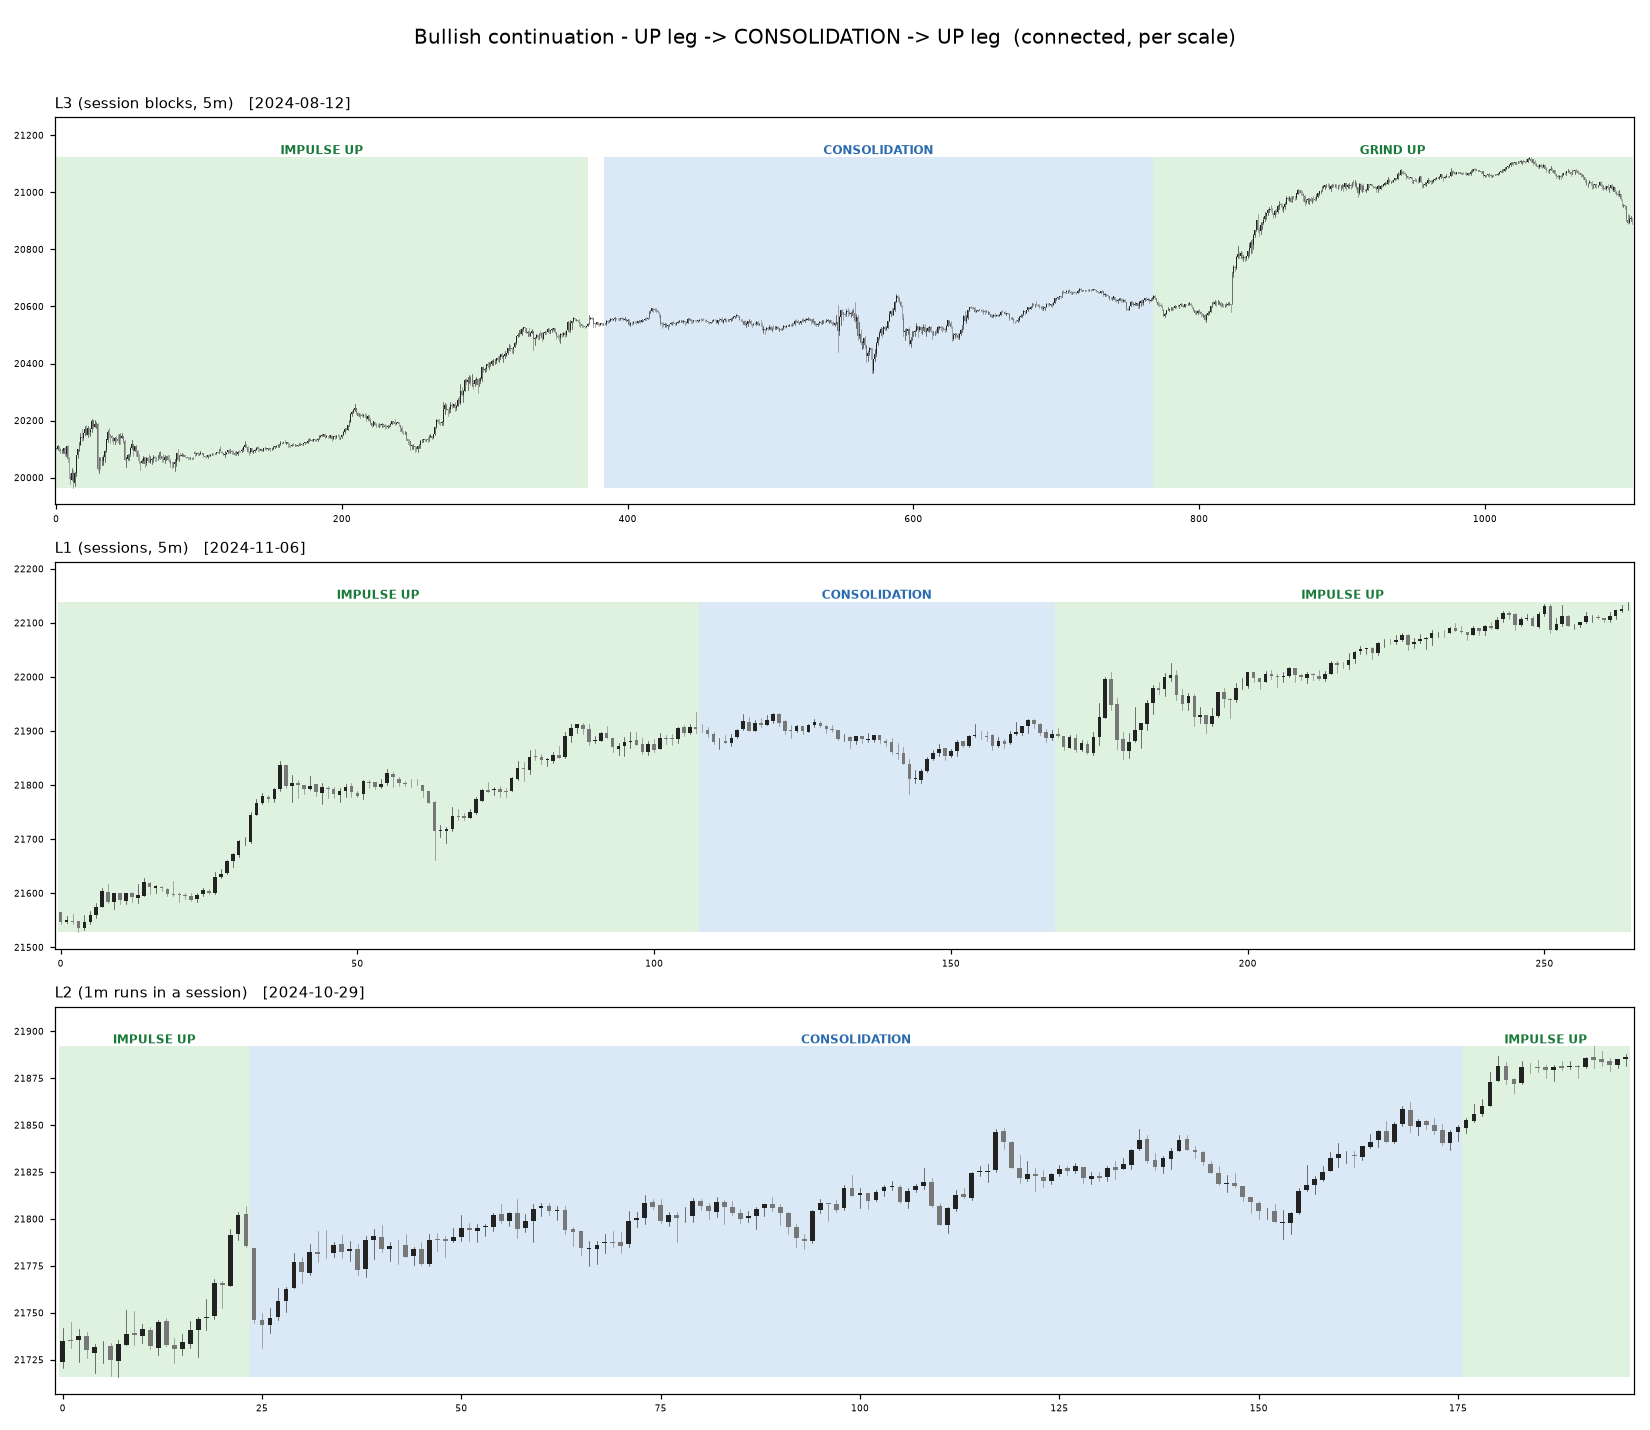
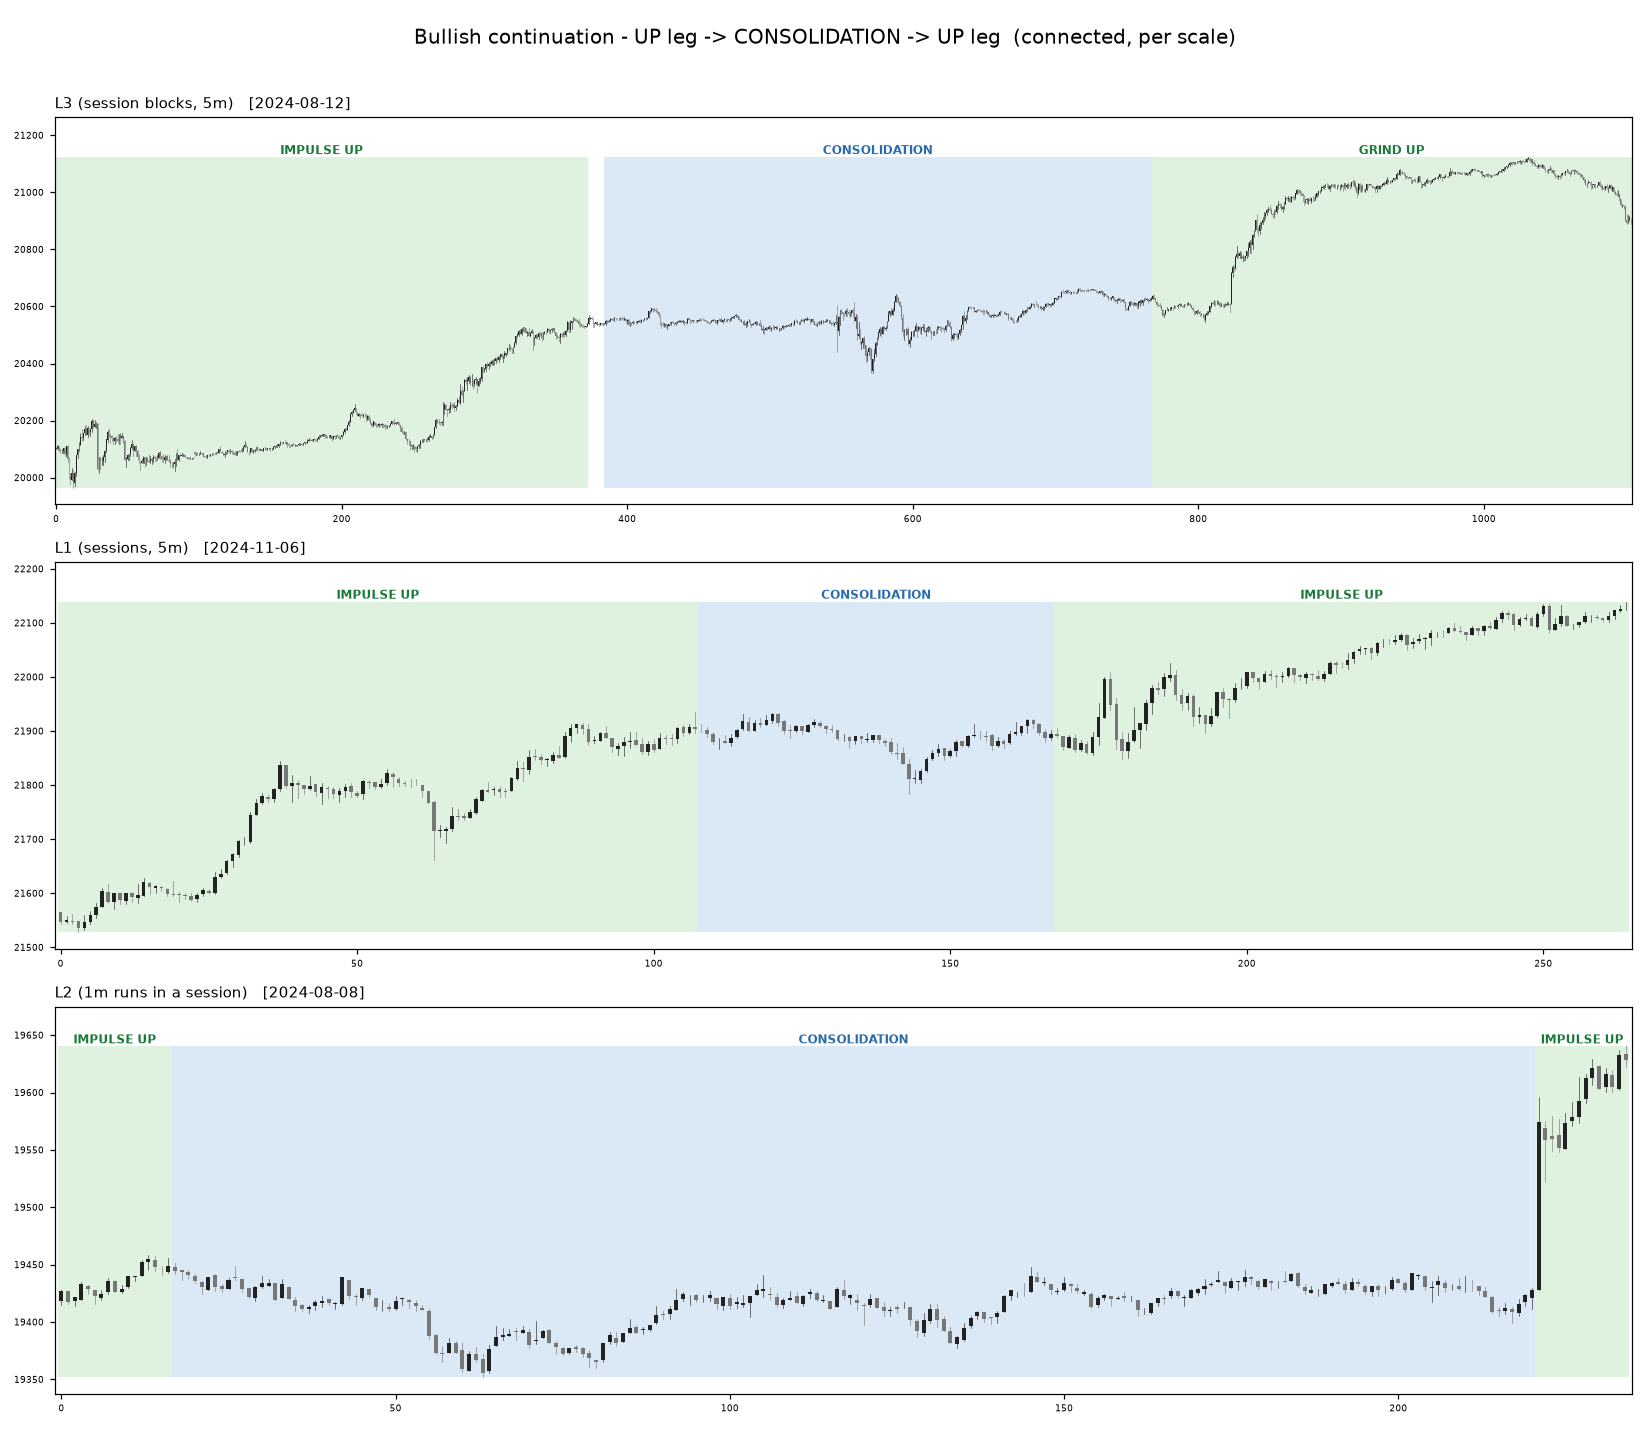
Engine research: cross-scale alignment + continuation counts
alignment.py: measures whether the lower scale points the same way inside the higher.
Finding — alignment collapses with scale distance: L1->L2 tightly coupled (~87%, a
directional session is built of same-direction impulses) but L3->L1 basically decoupled
(~19% = base rate; big trends accumulate through mostly-flat sessions). Full 3-scale
confluence only ~18% of directional moments -> rare and premium.

find_continuation.py: now prints how many connected up->consolidation->up setups exist
per scale (6mo: L3=4, L1=12, L2=66 — frequency scales fractally, many small / few big).
README updated with both.

diff --git a/experiments/engine/research/alignment.py b/experiments/engine/research/alignment.py
@@ -1,0 +1,160 @@
+"""experiments/engine/research/alignment.py — do the scales line up?
+
+Measures cross-scale directional alignment: when the higher scale points UP, does the
+lower scale point UP inside it (nesting/confluence), or do they diverge?
+
+  L3->L1 : for each L3 direction, what direction are the L1 sessions inside it?
+  L1->L2 : for each L1 direction, which way do the 1m impulses inside tilt?
+  full stack : how often do all three point the same directional way at once?
+
+Direction of a state: UP = impulse/grind up | DN = impulse/grind down | FLAT = consol/whip.
+Read-only research VIEW; only calls the frozen engine.
+
+  python experiments/engine/research/alignment.py
+"""
+import argparse
+import os
+import sys
+from collections import Counter, defaultdict
+
+import matplotlib
+matplotlib.use("Agg")
+import matplotlib.pyplot as plt
+import numpy as np
+import pandas as pd
+
+HERE = os.path.dirname(os.path.abspath(__file__))
+ENGINE = os.path.dirname(HERE)
+REPO = os.path.dirname(os.path.dirname(ENGINE))
+sys.path.insert(0, ENGINE)
+sys.path.insert(0, REPO)
+from grade import grade  # noqa: E402
+from anchors import session_anchors, rolling_states, meta_frame  # noqa: E402
+
+COL = {"UP": "#1a9850", "FLAT": "#b3b3b3", "DN": "#d73027"}
+
+
+def cuts(gs, ep=0.66, ap=0.50):
+    return (float(np.quantile([g.efficiency for g in gs], ep)),
+            float(np.quantile([g.acceptance for g in gs], ap)))
+
+
+def reclass(g, e, a):
+    d = "UP" if g.direction == "bull" else "DN"
+    if g.efficiency >= e:
+        return ("GRIND " if g.acceptance >= a else "IMPULSE ") + d
+    return "CONSOLIDATION" if g.acceptance >= a else "WHIPSAW"
+
+
+def dir_of(s):
+    if s in ("IMPULSE UP", "GRIND UP"):
+        return "UP"
+    if s in ("IMPULSE DN", "GRIND DN"):
+        return "DN"
+    return "FLAT"
+
+
+def merge_impulses(states, gap=12, min_len=8):
+    n = len(states); raw = []; i = 0
+    while i < n:
+        if states[i] and states[i].startswith("IMPULSE"):
+            j = i
+            while j < n and states[j] == states[i]:
+                j += 1
+            raw.append([i, j - 1, states[i]]); i = j
+        else:
+            i += 1
+    m = []
+    for a, b, s in raw:
+        if m and m[-1][2] == s and a - m[-1][1] - 1 <= gap:
+            m[-1][1] = b
+        else:
+            m.append([a, b, s])
+    return [(a, b, s) for a, b, s in m if b - a + 1 >= min_len]
+
+
+def stacked(ax, buckets, title, xlabel):
+    conds = ["UP", "FLAT", "DN"]
+    bottom = np.zeros(len(conds))
+    for oc in ("UP", "FLAT", "DN"):
+        vals = [buckets[c].get(oc, 0) / max(1, sum(buckets[c].values())) for c in conds]
+        ax.bar([f"{xlabel}\n{c}" for c in conds], vals, bottom=bottom, color=COL[oc], label=oc)
+        for xi, (v, b0) in enumerate(zip(vals, bottom)):
+            if v > 0.06:
+                ax.text(xi, b0 + v / 2, f"{v:.0%}", ha="center", va="center", fontsize=8, color="white")
+        bottom += np.array(vals)
+    ns = [sum(buckets[c].values()) for c in conds]
+    for xi, n in enumerate(ns):
+        ax.text(xi, 1.01, f"n={n}", ha="center", fontsize=7, color="#555")
+    ax.set_ylim(0, 1.06); ax.set_title(title, fontsize=11); ax.legend(fontsize=8, loc="lower right")
+
+
+def main():
+    ap = argparse.ArgumentParser()
+    ap.add_argument("--start", default="2023-01-01")
+    ap.add_argument("--sample", type=int, default=200, help="sessions for the 1m L1->L2 pass")
+    args = ap.parse_args()
+    d5 = pd.read_parquet(os.path.join(REPO, "data", "NQ", "NQ_5m.parquet"))
+    d5 = d5.loc[d5.index >= pd.Timestamp(args.start, tz="UTC")]
+    insts = session_anchors(d5, 1_000_000)
+
+    g1 = [grade(d5.iloc[s["start"]:s["end"] + 1]) for s in insts]
+    e1, a1 = cuts(g1)
+    l1 = [reclass(g, e1, a1) for g in g1]
+    W = 8
+    g3 = [grade(meta_frame(g1[i - W:i])) for i in range(W, len(g1))]
+    e3, a3 = cuts(g3)
+    l3 = {i: reclass(g3[i - W], e3, a3) for i in range(W, len(g1))}
+
+    # L3 -> L1 (full window)
+    l3_l1 = defaultdict(Counter)
+    for i in range(W, len(insts)):
+        l3_l1[dir_of(l3[i])][dir_of(l1[i])] += 1
+
+    # L1 -> L2 (sample, 1m) + full stack
+    d1 = pd.read_parquet(os.path.join(REPO, "data", "NQ", "NQ_1m.parquet"))
+    sample_ix = list(range(max(W, len(insts) - args.sample), len(insts)))
+    d1 = d1.loc[d1.index >= d5.index[insts[sample_ix[0]]["start"]]]
+    l1_l2 = defaultdict(Counter)
+    stack_agree = stack_dir = 0
+    for i in sample_ix:
+        s = insts[i]
+        win1 = d1.loc[d5.index[s["start"]]:d5.index[s["end"]] + pd.Timedelta("5min")]
+        if len(win1) < 40:
+            continue
+        imps = merge_impulses(rolling_states(win1, 25))
+        up = sum(1 for _a, _b, x in imps if x.endswith("UP"))
+        dn = len(imps) - up
+        l2d = "UP" if up > dn * 1.3 else "DN" if dn > up * 1.3 else "FLAT"
+        l1_l2[dir_of(l1[i])][l2d] += 1
+        if dir_of(l3.get(i, "FLAT")) in ("UP", "DN"):
+            stack_dir += 1
+            if dir_of(l3[i]) == dir_of(l1[i]) == l2d:
+                stack_agree += 1
+
+    print("=" * 58)
+    print(f"  CROSS-SCALE ALIGNMENT - NQ since {args.start} ({len(insts)} sessions)")
+    print("=" * 58)
+    print("\n  L3 -> L1 : when the multi-session scale is directional, does the session follow?")
+    for d in ("UP", "DN"):
+        b = l3_l1[d]; t = sum(b.values())
+        print(f"    L3 {d}: L1 same {b[d]/t:.0%} | flat {b['FLAT']/t:.0%} | opposite {b['DN' if d=='UP' else 'UP']/t:.0%}  (n={t})")
+    print("\n  L1 -> L2 : when the session is directional, do the 1m impulses tilt with it?")
+    for d in ("UP", "DN"):
+        b = l1_l2[d]; t = sum(b.values()) or 1
+        print(f"    L1 {d}: L2 same {b[d]/t:.0%} | flat {b['FLAT']/t:.0%} | opposite {b['DN' if d=='UP' else 'UP']/t:.0%}  (n={sum(b.values())})")
+    print(f"\n  FULL STACK: all three agree on direction {stack_agree/max(1,stack_dir):.0%} "
+          f"of directional moments (n={stack_dir})")
+
+    fig, ax = plt.subplots(1, 2, figsize=(13, 6))
+    stacked(ax[0], l3_l1, "L3 -> L1  (session direction, given L3)", "L3")
+    stacked(ax[1], l1_l2, "L1 -> L2  (1m impulse tilt, given L1)", "L1")
+    fig.suptitle("Cross-scale alignment - does the lower scale point the same way as the higher?", fontsize=13)
+    fig.tight_layout(rect=[0, 0, 1, 0.95])
+    out = os.path.join(ENGINE, "out", "alignment.png")
+    fig.savefig(out, dpi=110)
+    print("\nwrote", out)
+
+
+if __name__ == "__main__":
+    main()

diff --git a/experiments/engine/research/find_continuation.py b/experiments/engine/research/find_continuation.py
@@ -93,7 +93,7 @@ def find_l1(d5, insts):
                  (st[i + 2], insts[i + 2]["start"] - p0, insts[i + 2]["end"] - p0)]
             score = net(d5.iloc[insts[i]["start"]:insts[i]["end"] + 1]) + net(d5.iloc[insts[i + 2]["start"]:insts[i + 2]["end"] + 1])
             cands.append((seg, b, score))
-    return best(cands)
+    return best(cands), len(cands)
 
 
 def find_l3(d5, insts, B=4):
@@ -111,7 +111,7 @@ def find_l3(d5, insts, B=4):
                  (st[i + 2], blocks[i + 2][0] - p0, blocks[i + 2][1] - p0)]
             score = net(d5.iloc[blocks[i][0]:blocks[i][1] + 1]) + net(d5.iloc[blocks[i + 2][0]:blocks[i + 2][1] + 1])
             cands.append((seg, b, score))
-    return best(cands)
+    return best(cands), len(cands)
 
 
 def find_l2(d5, d1, insts, sample):
@@ -135,7 +135,7 @@ def find_l2(d5, d1, insts, sample):
                      ("IMPULSE UP", ca - pa, cb - pa)]
                 score = net(win1.iloc[pa:pb + 1]) + net(win1.iloc[ca:cb + 1])
                 cands.append((seg, b, score))
-    return best(cands)
+    return best(cands), len(cands)
 
 
 def draw(ax, found, title):
@@ -167,10 +167,17 @@ def main():
     d1 = d1.loc[d1.index >= pd.Timestamp(args.start, tz="UTC")]
     insts = session_anchors(d5, 1_000_000)
 
+    l3f, l3n = find_l3(d5, insts)
+    l1f, l1n = find_l1(d5, insts)
+    l2f, l2n = find_l2(d5, d1, insts, args.l2_sample)
+    print(f"continuation setups found  ({d5.index[0].date()} -> {d5.index[-1].date()}, {len(insts)} sessions):")
+    print(f"  L3 (session blocks): {l3n}")
+    print(f"  L1 (sessions):       {l1n}")
+    print(f"  L2 (1m, last {args.l2_sample} sessions): {l2n}")
     fig, ax = plt.subplots(3, 1, figsize=(15, 13))
-    draw(ax[0], find_l3(d5, insts), "L3 (session blocks, 5m)")
-    draw(ax[1], find_l1(d5, insts), "L1 (sessions, 5m)")
-    draw(ax[2], find_l2(d5, d1, insts, args.l2_sample), "L2 (1m runs in a session)")
+    draw(ax[0], l3f, "L3 (session blocks, 5m)")
+    draw(ax[1], l1f, "L1 (sessions, 5m)")
+    draw(ax[2], l2f, "L2 (1m runs in a session)")
     fig.suptitle("Bullish continuation - UP leg -> CONSOLIDATION -> UP leg  (connected, per scale)", fontsize=13)
     fig.tight_layout(rect=[0, 0, 1, 0.97])
     out = os.path.join(ENGINE, "out", "continuation_examples.png")

diff --git a/experiments/engine/research/README.md b/experiments/engine/research/README.md
@@ -105,6 +105,23 @@ is the entry zone; the same structure recurs fractally.
 python experiments/engine/research/find_continuation.py
 ```
 
+### `alignment.py` — do the scales line up? (nesting/confluence)
+Cross-scale directional alignment: when the higher scale is directional, does the lower
+scale point the same way inside it? Bar PNG (`out/alignment.png`) + plain-english.
+```bash
+python experiments/engine/research/alignment.py --start 2023-01-01 --sample 200
+```
+**Findings — alignment COLLAPSES with scale distance:**
+- **L1 -> L2 tightly coupled** (~86-88%): a directional session is built of same-direction
+  impulses. Adjacent scales nest cleanly.
+- **L3 -> L1 basically decoupled** (~19% aligned = the base rate): the L1 session mix is
+  ~the same whatever L3 is doing. A multi-session trend is built through mostly-flat
+  sessions (~68%) with occasional aligned pushes — it accumulates, it doesn't require each
+  session to trend.
+- **Full 3-scale confluence only ~18%** of directional moments -> rare and premium.
+So setups nest partially: L2-in-L1 yes, L1-in-L3 no. "Trade with the big trend" fails at
+the session level ~80% of the time; the value is that all-three-aligned is *rare*.
+
 ## Status
 
 Descriptive only — no entry/exit/stop/sizing rules yet. This is the **measure-what's-true**